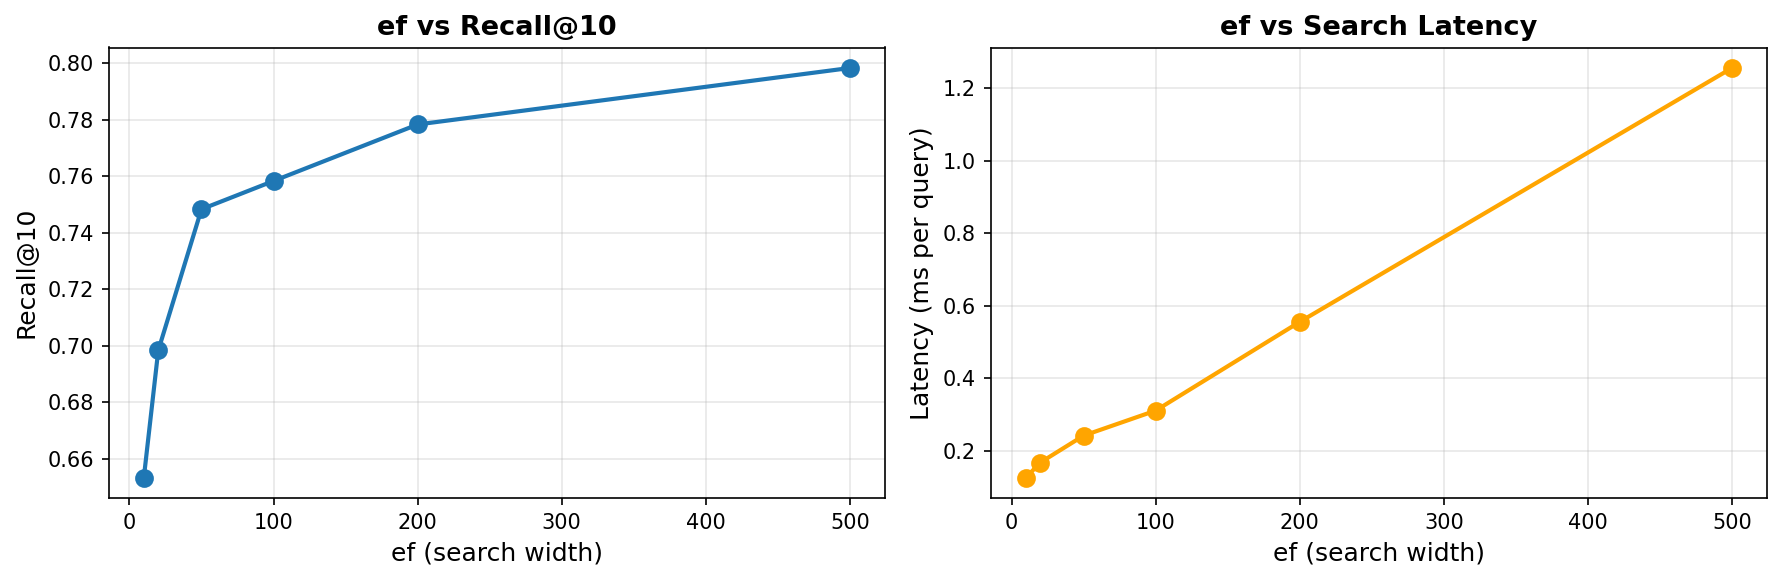
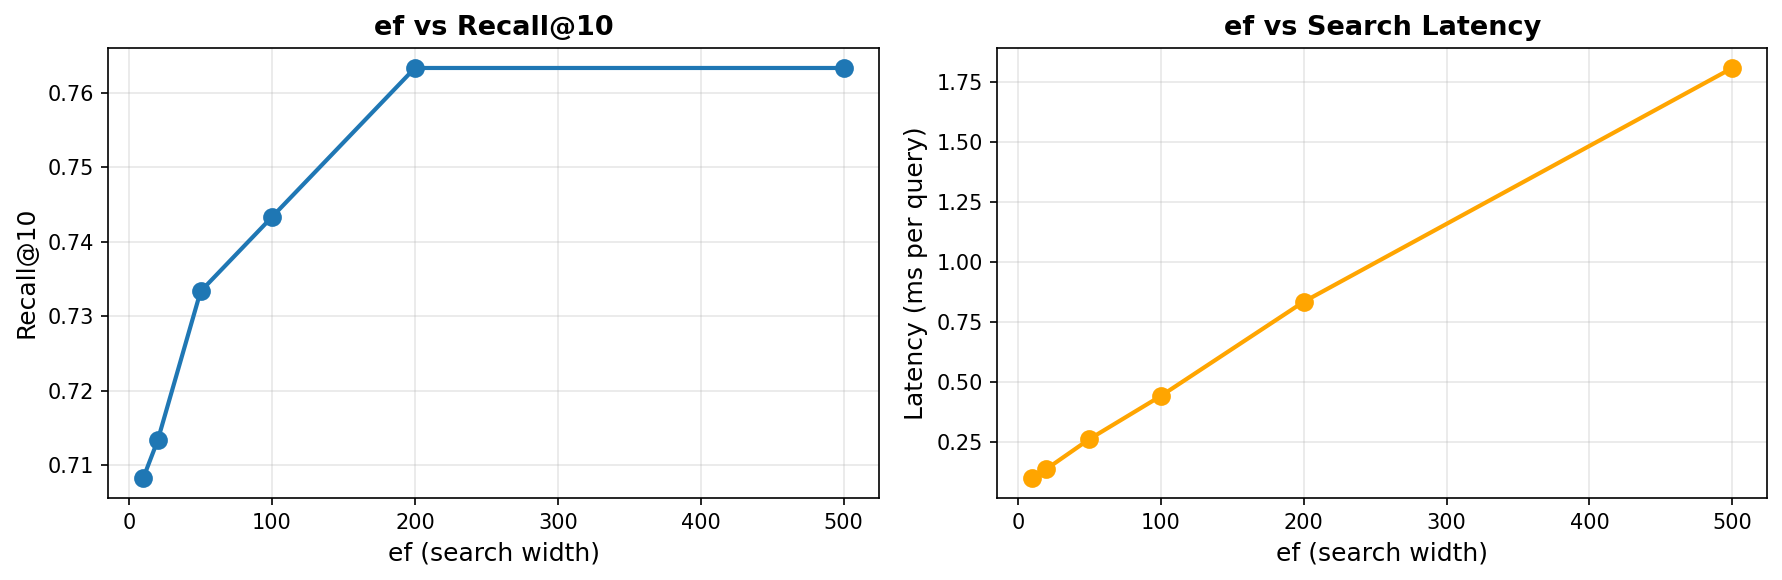
update: m=32 for hnswlib

diff --git a/notebooks/003-hnswlib_demo.py b/notebooks/003-hnswlib_demo.py
@@ -30,7 +30,7 @@ SUBSET_SIZE = "1M"
 SPLIT = "dev"
 
 # HNSW Parameters
-M = 16  # Max connections per node (higher = better recall, more memory)
+M = 32  # Max connections per node (higher = better recall, more memory)
 EF_CONSTRUCTION = 100  # Build-time accuracy (higher = better index quality, slower build)
 EF_SEARCH = 50  # Search-time accuracy (higher = better recall, slower search)
 
@@ -157,7 +157,7 @@ query_emb, query_id_list = sample_queries(
 # ## Build HNSW Index
 #
 # **Key Parameters:**
-# - `M = 16`: Each node connects to max 16 neighbors (trade-off: recall vs memory)
+# - `M = 32`: Each node connects to max 32 neighbors (trade-off: recall vs memory)
 # - `ef_construction = 100`: Build-time search width (higher = better quality, slower)
 #   - Reduced from 200 to 100 for **2x faster** build time with minimal quality loss
 #   - For 1M docs: ~3-5 minutes instead of 10+ minutes
@@ -583,16 +583,16 @@ print(f"  - hnswlib_metrics.json (full performance report)")
 # Dimension: 384
 
 # HNSW Parameters:
-#   M (max connections): 16
+#   M (max connections): 32
 #   ef_construction: 100
 #   num_threads: -1 (all cores)
 #   Space: cosine
 
 # Building index (batch size: 1,000)...
-#   Progress: 100.0% (1,000,000/1,000,000) - 375.7s elapsed
+#   Progress: 100.0% (1,000,000/1,000,000) - 512.8s elapsed
 
-# Index built in 375.71 seconds (6.3 minutes)
-# Build speed: 2662 vectors/sec
+# Index built in 512.76 seconds (8.5 minutes)
+# Build speed: 1950 vectors/sec
 
 # Index Statistics:
 #   Total elements: 1,000,000
@@ -608,12 +608,12 @@ print(f"  - hnswlib_metrics.json (full performance report)")
 # Demonstrating HNSW search with different ef values:
 # (Shows how HNSW trades off speed vs accuracy)
 
-# ef= 10: 0.09 ms/query
-#   Query 0 top-3 neighbors: [927045 489818 193960] (distances: [0.221 0.28  0.291])
-# ef= 50: 0.16 ms/query
-#   Query 0 top-3 neighbors: [927045 489818 193960] (distances: [0.221 0.28  0.291])
-# ef=200: 0.52 ms/query
-#   Query 0 top-3 neighbors: [927045 489818 193960] (distances: [0.221 0.28  0.291])
+# ef= 10: 0.13 ms/query
+#   Query 0 top-3 neighbors: [355845 319197 154322] (distances: [0.221 0.231 0.282])
+# ef= 50: 0.22 ms/query
+#   Query 0 top-3 neighbors: [355845 319197 154322] (distances: [0.221 0.231 0.282])
+# ef=200: 0.71 ms/query
+#   Query 0 top-3 neighbors: [355845 319197 154322] (distances: [0.221 0.231 0.282])
 
 # ** HNSW Properties Demonstrated **
 # - Lower ef → Faster search (explores fewer nodes)
@@ -632,9 +632,9 @@ print(f"  - hnswlib_metrics.json (full performance report)")
 #   K (neighbors to retrieve): 100
 
 # Searching 100 queries...
-# Search completed in 0.04 seconds
-# Queries per second: 2274.8
-# Avg latency per query: 0.44 ms
+# Search completed in 0.05 seconds
+# Queries per second: 2165.7
+# Avg latency per query: 0.46 ms
 # ```
 
 # ```
@@ -642,10 +642,10 @@ print(f"  - hnswlib_metrics.json (full performance report)")
 # HNSW DEMO COMPLETE
 # ================================================================================
 
-# Index: 1,000,000 vectors in 375.7s
-# Search: 100 queries in 0.04s
-# Recall@10: 0.7583
-# Latency: 0.44 ms/query
+# Index: 1,000,000 vectors in 512.8s
+# Search: 100 queries in 0.05s
+# Recall@10: 0.7433
+# Latency: 0.46 ms/query
 
 # Results saved to ../reports/hnswlib/
 #   - ef_tradeoff.png (parameter tuning analysis)
